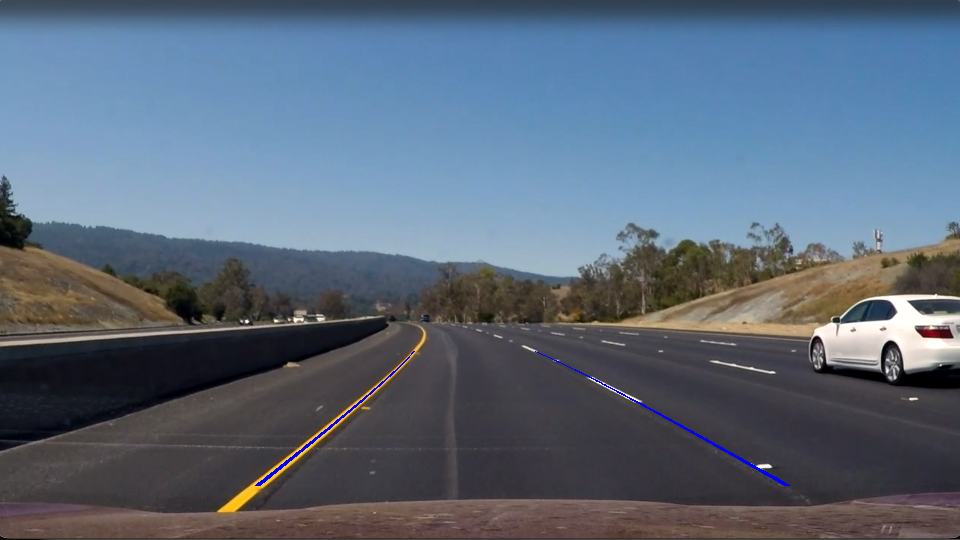
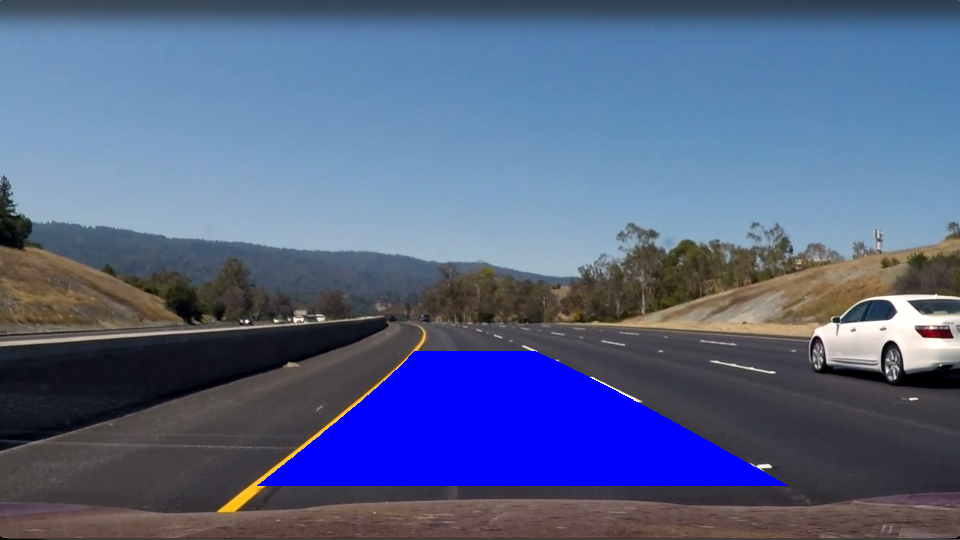
polygon drawn

Changed region(s): [[0.25, 0.6519, 0.8125, 0.9185]]

diff --git a/lane-detection/preprocessing.py b/lane-detection/preprocessing.py
@@ -170,12 +170,29 @@ def polynomial_fit(t_matrix):
 
     cv2.imwrite("../data/polynomial_fit.png", out_img)
 
+    # img_size = (out_img.shape[1], out_img.shape[0])
+    # reverse_warp = cv2.warpPerspective(out_img, t_matrix, img_size)
+    # cv2.imwrite("../data/lane_fit.png", reverse_warp)
+    return left_coords, right_coords, out_img, t_matrix, ploty
+
+def drawPolygon(og_matrix):
+    left_coords, right_coords, out_img, t_matrix, ploty = polynomial_fit(og_matrix)
     img_size = (out_img.shape[1], out_img.shape[0])
-    reverse_warp = cv2.warpPerspective(out_img, t_matrix, img_size)
-    cv2.imwrite("../data/lane_fit.png", reverse_warp)
+    lane_mask = np.zeros_like(out_img)
+    left_pts = left_coords.transpose()
+    right_pts = right_coords.transpose()
+    right_pts = right_pts[::-1]
+    pts = np.vstack((left_pts, right_pts))
+    pts = pts.astype(np.int32)
+    pts = pts.reshape((-1, 1, 2))
+    cv2.fillPoly(lane_mask, [pts], (255, 0, 0))
+    reverse_warp = cv2.warpPerspective(lane_mask, t_matrix, img_size)
+    # cv2.imwrite("../data/lane_fit.png", reverse_warp)
+    cv2.imwrite("../data/polygon.png", reverse_warp)
+
 
 def overlay():
-    lanes = cv2.imread("../data/lane_fit.png")
+    lanes = cv2.imread("../data/polygon.png")
     og_img = cv2.imread("../data/lane5.png")
     og_img = cv2.resize(og_img, (960, 540))
 
@@ -194,7 +211,7 @@ def overlay():
 
 _,_, t_matrix = perspective_warp("../data/lane5.png")
 edge_detection("../data/birds_eye.png")
-polynomial_fit(t_matrix)
+drawPolygon(t_matrix)
 overlay()
 # leftx, lefty, rightx, righty, ans = sliding_window("../data/edges.png")
 
